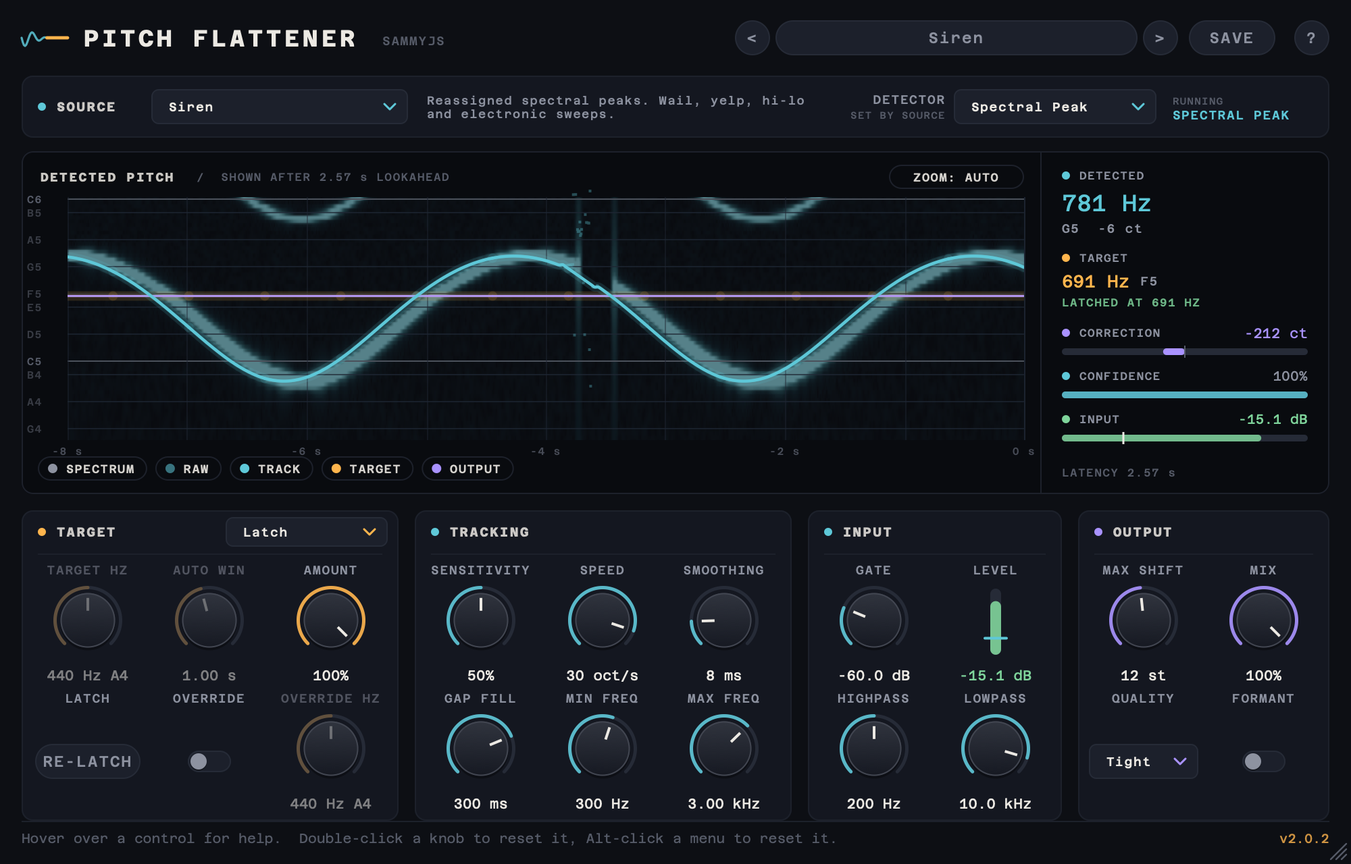
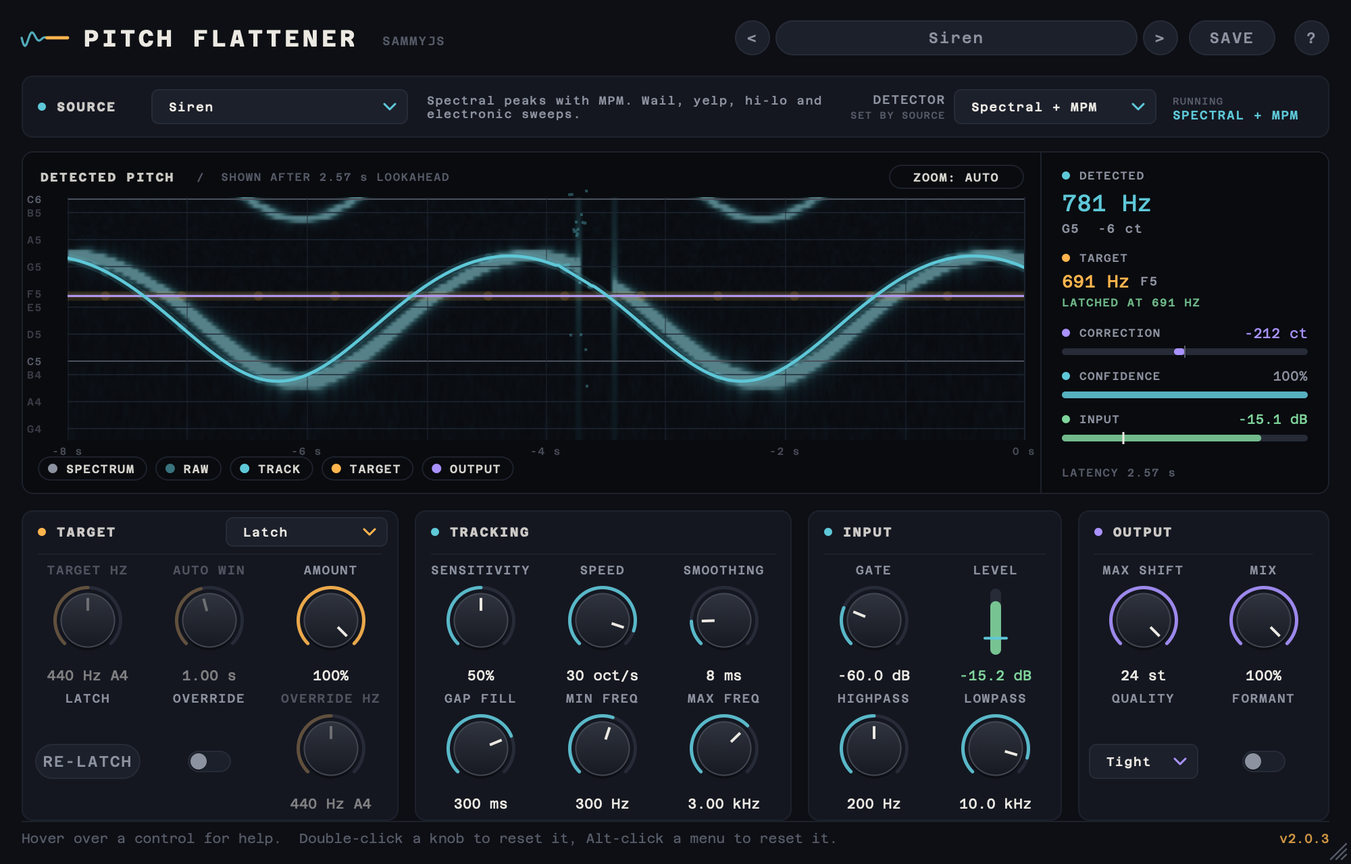
Pitch Flattener: Spectral + MPM detector for sirens, Siren Max Shift 24
A real siren recording (fast yelp, two-tone horn, wail) wobbled in its
first seconds. Not the latch: Spectral Peak smears a yelp of ~9 oct/s, and
the two-tone sits ~16 semitones below the latched pitch, past the
12-semitone Max Shift.

- New detector Spectral + MPM (appended to the Detector list): both run on
  every frame and their candidates, each weighted by its own confidence
  (MPM x4), go to the tracker. MPM is sharp on fast sweeps but fails in
  heavy noise, where Spectral Peak carries the track.
- Siren uses it, and Source Types now set Max Shift (Siren 24, others 12),
  as do the factory presets and the parameter default.
- On the recording, median error: yelp 81 -> 21 cents, two-tone 449 -> 4,
  wail 12 -> 4. Noise robustness matches Spectral Peak.
- Tests: siren_multi (fails on the old preset), siren_yelp_noisy (fails
  with MPM alone); settingsFor uses each Source Type's Max Shift; --file
  diagnostic for real recordings.
- README and screenshots updated.

diff --git a/pitchflattener/tests/FlattenTests.cpp b/pitchflattener/tests/FlattenTests.cpp
@@ -161,7 +161,7 @@ namespace
         s.targetHz = c.targetHz;
         s.autoWindowMs = 1000.0f;
         s.amount = 1.0f;
-        s.maxShiftSemitones = 24.0f;
+        s.maxShiftSemitones = p.maxShiftSemitones;   // as a newly chosen Source Type sets it
         s.gateDb = -60.0f;
         s.mix = 1.0f;
         s.formantPreserve = p.formant;
@@ -418,6 +418,101 @@ namespace
         return ok;
     }
 
+    /**
+     * Diagnostic for a real recording (--file): plays it through a Source Type's settings in Latch mode and prints,
+     * every 100 ms, the tracked pitch, the target, the correction and the output pitch measured near the target,
+     * then the median and 90th percentile of how far the output is from the target.
+     */
+    int analyseFile (const juce::File& file, SourceType source, int detectorOverride)
+    {
+        juce::AudioFormatManager formats;
+        formats.registerBasicFormats();
+        std::unique_ptr<juce::AudioFormatReader> reader (formats.createReaderFor (file));
+        if (reader == nullptr)
+        {
+            std::printf ("can't read %s\n", file.getFullPathName().toRawUTF8());
+            return 1;
+        }
+        const double fs = reader->sampleRate;
+        const int len = (int) reader->lengthInSamples;
+        juce::AudioBuffer<float> in (1, len);
+        reader->read (&in, 0, len, 0, true, false);   // left (or mono) channel
+
+        const auto& p = getSourcePreset (source);
+        FlattenerCore core;
+        DetectorConfig dc;
+        dc.type = detectorOverride >= 0 ? (DetectorType) detectorOverride : p.detector;
+        dc.minHz = p.minHz; dc.maxHz = p.maxHz;
+        core.prepare (fs, 512, 2, dc, p.quality);
+        Case c { file.getFileName().toStdString(), source, TargetMode::Latch, 0.0f, nullptr, 0, 0, 0 };
+        auto ls = settingsFor (c);
+        ls.gateDb = -60.0f;   // the plugin's default
+        core.setLiveSettings (ls);
+        core.setFilters (p.highpassHz, p.lowpassHz);
+
+        const int lat = core.getLatencySamples(), n = lat + len;
+        std::vector<float> l ((size_t) n, 0.0f);
+        std::copy (in.getReadPointer (0), in.getReadPointer (0) + len, l.begin());
+        auto r = l;
+        std::vector<TelemetryFrame> frames;
+        for (int pos = 0; pos < n; pos += 512)
+        {
+            float* ch[2] = { l.data() + pos, r.data() + pos };
+            core.process (ch, 2, std::min (512, n - pos));
+            TelemetryFrame tf;
+            while (core.popTelemetry (tf))
+                frames.push_back (tf);
+        }
+
+        std::printf ("%s: %s, detector %s, Max Shift %.0f st, latency %.2f s\n", file.getFileName().toRawUTF8(), p.name,
+                     getDetectorName (dc.type), ls.maxShiftSemitones, lat / fs);
+        std::printf ("   t(s)   track  target  corr(ct)  out(Hz)  off(ct)\n");
+
+        // Telemetry frame -> time (approximately: the detector's own time bias is not included).
+        const double fa = core.getAnalysisRate();
+        const double hopA = std::round (0.005 * fa);
+        const double fw = std::pow (2.0, std::ceil (std::log2 (8192.0 * fa / 24000.0)));
+        const int win = (int) (0.04 * fs);
+
+        // Meter a low-passed copy of the output, as runCase does, so broadband noise doesn't hide the pitch.
+        float highestTarget = 0.0f;
+        for (const auto& tf : frames) highestTarget = std::max (highestTarget, tf.targetHz);
+        std::vector<float> metered (l.begin() + lat, l.end());
+        {
+            juce::IIRFilter lp1, lp2;
+            const double fc = std::min (0.4 * fs, 8.0 * std::max (60.0, (double) highestTarget));
+            lp1.setCoefficients (juce::IIRCoefficients::makeLowPass (fs, fc));
+            lp2.setCoefficients (juce::IIRCoefficients::makeLowPass (fs, fc));
+            for (auto& v : metered) v = lp2.processSingleSampleRaw (lp1.processSingleSampleRaw (v));
+        }
+
+        std::vector<float> off;
+        int rows = 0, unpitched = 0;
+        double next = 0.0;
+        for (const auto& tf : frames)
+        {
+            const double t = (tf.frame * hopA + fw / 2) / fa;
+            const int at = (int) (t * fs);
+            if (t < next || at + win >= len)
+                continue;
+            next = std::floor (t * 10.0 + 1.0e-6) / 10.0 + 0.1;   // one row per 100 ms step
+            ++rows;
+            if (tf.targetHz <= 0) ++unpitched;
+            const float out = tf.targetHz > 0 ? measurePitch (metered.data() + at, win, fs, tf.targetHz) : 0.0f;
+            const float cents = out > 0 ? 1200.0f * std::log2 (out / tf.targetHz) : 0.0f;
+            if (tf.targetHz > 0)
+                off.push_back (out > 0 ? std::abs (cents) : 1200.0f);
+            std::printf ("  %5.2f %7.1f %7.1f %8.1f %8.1f %8.1f\n", t, tf.trackHz, tf.targetHz, tf.ratioCents, out, cents);
+        }
+        std::printf ("rows with no pitch tracked: %d of %d\n", unpitched, rows);
+        if (off.empty())
+            std::printf ("output off target: no pitch was tracked, so there is nothing to measure\n");
+        else
+            std::printf ("output off target (rows with a pitch), median / 90th pct: %.0f / %.0f cents (1200 = no pitch measured in the output)\n",
+                         percentile (off, 0.5f), percentile (off, 0.9f));
+        return 0;
+    }
+
     bool testToneAndNaN (double fs, bool injectNaN, const char* label)
     {
         FlattenerCore core;
@@ -496,6 +591,8 @@ int main (int argc, char** argv)
     int block = 512;
     juce::File wavDir;
     juce::String only;
+    juce::File analyse;
+    int analyseSource = (int) SourceType::Siren, analyseDetector = -1;
 
     for (int i = 1; i < argc; ++i)
     {
@@ -506,7 +603,13 @@ int main (int argc, char** argv)
         else if (a == "--only" && i + 1 < argc) only = argv[++i];
         else if (a == "--align" && i + 1 < argc) gAlign = juce::String (argv[++i]).getIntValue();
         else if (a == "--dump") gDump = true;
+        else if (a == "--file" && i + 1 < argc) analyse = juce::File (juce::String (argv[++i]));
+        else if (a == "--source" && i + 1 < argc) analyseSource = juce::String (argv[++i]).getIntValue();
+        else if (a == "--detector" && i + 1 < argc) analyseDetector = juce::String (argv[++i]).getIntValue();
     }
+
+    if (analyse != juce::File())
+        return analyseFile (analyse, (SourceType) juce::jlimit (0, (int) SourceType::NumSourceTypes - 1, analyseSource), analyseDetector);
 
     std::printf ("Pitch Flattener DSP tests @ %.0f Hz, block %d\n", fs, block);
     bool ok = true;
@@ -530,6 +633,25 @@ int main (int argc, char** argv)
                 const double ph = std::fmod (t * 3.0, 1.0);
                 return 700.0 * std::pow (2.0, (ph < 0.5 ? ph * 2.0 : 2.0 - ph * 2.0) * 1.0); }, 4, 1.5, -40.0); },
           25.0f, 60.0f, 0.50f },   // ~6 oct/s triangle: close to what a phase-vocoder shifter can follow
+        // A British-style siren cycle: fast yelp (1 octave at 4.5 Hz, ~9 oct/s), then a two-tone horn well below it,
+        // then a slow wail. Needs MPM's sharpness on the yelp and the full 24-semitone Max Shift for the two-tone.
+        { "siren_multi", SourceType::Siren, TargetMode::Fixed, 1450.0f,
+          [] (double r) { return harmonicTone (r, 12.0, [] (double t) {
+                if (t < 4.5)
+                {
+                    const double ph = std::fmod (t * 4.5, 1.0);
+                    return 870.0 * std::pow (2.0, ph < 0.8 ? ph / 0.8 : (1.0 - ph) / 0.2);   // saw-like: slow up, fast down
+                }
+                if (t < 7.0)
+                    return std::fmod (t, 0.7) < 0.35 ? 575.0 : 645.0;
+                return 1300.0 + 450.0 * std::sin (twoPi * 0.18 * (t - 7.0)); }, 4, 1.5, -40.0); },
+          40.0f, 120.0f, 0.40f },
+        // A yelp in heavy broadband noise (about 0 dB SNR): where MPM alone loses the pitch.
+        { "siren_yelp_noisy", SourceType::Siren, TargetMode::Fixed, 1000.0f,
+          [] (double r) { return harmonicTone (r, 8.0, [] (double t) {
+                const double ph = std::fmod (t * 3.0, 1.0);
+                return 700.0 * std::pow (2.0, (ph < 0.5 ? ph * 2.0 : 2.0 - ph * 2.0) * 1.0); }, 4, 1.5, -12.0); },
+          30.0f, 70.0f, 0.45f },
         { "voice_vibrato", SourceType::Vocal, TargetMode::Latch, 0.0f,
           [] (double r) { return voice (r, 10.0, [] (double t) {
                 return 180.0 * std::pow (2.0, (50.0 * std::sin (twoPi * 5.5 * t) + 150.0 * std::sin (twoPi * 0.15 * t)) / 1200.0); }); },

diff --git a/pitchflattener/Source/dsp/SourcePresets.h b/pitchflattener/Source/dsp/SourcePresets.h
@@ -19,27 +19,28 @@ namespace pf
         float highpassHz, lowpassHz;
         bool formant;
         int quality;              // 0 = Smooth (standard window), 1 = Tight (short window)
+        float maxShiftSemitones;  // sirens often switch between patterns far apart in pitch (yelp, two-tone, wail)
     };
 
     inline const SourcePreset& getSourcePreset(SourceType t)
     {
         static const SourcePreset presets[] = {
             { "Vocal / Speech", "pYIN with an HMM tracker. Voices, singing, vocal-like calls.",
-              DetectorType::PYin,         60.0f, 1000.0f, 0.50f, 12.0f, 15.0f, 150.0f,   50.0f,  4000.0f, true,  0 },
+              DetectorType::PYin,         60.0f, 1000.0f, 0.50f, 12.0f, 15.0f, 150.0f,   50.0f,  4000.0f, true, 0, 12.0f },
             { "Instrument",     "McLeod pitch method. Solo melodic instruments, vibrato, warble.",
-              DetectorType::Mpm,          40.0f, 2500.0f, 0.50f, 16.0f, 10.0f, 150.0f,   30.0f,  8000.0f, false, 0 },
-            { "Siren",          "Reassigned spectral peaks. Wail, yelp, hi-lo and electronic sweeps.",
-              DetectorType::SpectralPeak, 300.0f, 3000.0f, 0.50f, 30.0f,  8.0f, 300.0f,  200.0f, 10000.0f, false, 1 },
+              DetectorType::Mpm,          40.0f, 2500.0f, 0.50f, 16.0f, 10.0f, 150.0f,   30.0f,  8000.0f, false, 0, 12.0f },
+            { "Siren",          "Spectral peaks with MPM. Wail, yelp, hi-lo and electronic sweeps.",
+              DetectorType::SpectralMpm,  300.0f, 3000.0f, 0.50f, 30.0f,  8.0f, 300.0f,  200.0f, 10000.0f, false, 1, 24.0f },
             { "Whistle / Tone", "Long-window spectral peaks. Whistles, feedback, test tones, theremin.",
-              DetectorType::SpectralPeak, 150.0f, 6000.0f, 0.50f,  8.0f, 20.0f, 300.0f,  100.0f, 11000.0f, false, 0 },
+              DetectorType::SpectralPeak, 150.0f, 6000.0f, 0.50f,  8.0f, 20.0f, 300.0f,  100.0f, 11000.0f, false, 0, 12.0f },
             { "Engine / Doppler", "Harmonic sum spectrum. Engines, pass-bys, props, motors, trains.",
-              DetectorType::HarmonicSum,   25.0f, 1000.0f, 0.50f,  4.0f, 30.0f, 400.0f,   20.0f,  5000.0f, false, 0 },
+              DetectorType::HarmonicSum,   25.0f, 1000.0f, 0.50f,  4.0f, 30.0f, 400.0f,   20.0f,  5000.0f, false, 0, 12.0f },
             { "Drone / Hum",    "Very stable harmonic tracking for hums, generators and drones.",
-              DetectorType::HarmonicSum,   25.0f,  400.0f, 0.50f,  1.0f, 50.0f, 400.0f,   20.0f,  3000.0f, false, 0 },
+              DetectorType::HarmonicSum,   25.0f,  400.0f, 0.50f,  1.0f, 50.0f, 400.0f,   20.0f,  3000.0f, false, 0, 12.0f },
             { "Noisy Field",    "Harmonic sum with strict voicing for rough field recordings.",
-              DetectorType::HarmonicSum,   40.0f, 1500.0f, 0.35f,  4.0f, 40.0f, 400.0f,   40.0f,  6000.0f, false, 0 },
+              DetectorType::HarmonicSum,   40.0f, 1500.0f, 0.35f,  4.0f, 40.0f, 400.0f,   40.0f,  6000.0f, false, 0, 12.0f },
             { "Custom",         "Choose the detector and every setting yourself.",
-              DetectorType::SpectralPeak, 100.0f, 2000.0f, 0.50f,  8.0f, 15.0f, 200.0f,   40.0f,  8000.0f, false, 0 },
+              DetectorType::SpectralPeak, 100.0f, 2000.0f, 0.50f,  8.0f, 15.0f, 200.0f,   40.0f,  8000.0f, false, 0, 12.0f },
         };
 
         auto i = std::clamp((int) t, 0, (int) SourceType::NumSourceTypes - 1);
@@ -54,6 +55,7 @@ namespace pf
             case DetectorType::Mpm:          return "MPM (McLeod)";
             case DetectorType::SpectralPeak: return "Spectral Peak";
             case DetectorType::HarmonicSum:  return "Harmonic Sum";
+            case DetectorType::SpectralMpm:  return "Spectral + MPM";
             case DetectorType::NumDetectors:
             default:                         return "?";
         }

diff --git a/pitchflattener/Source/dsp/Detectors.cpp b/pitchflattener/Source/dsp/Detectors.cpp
@@ -730,6 +730,37 @@ namespace pf
     }
 
     //==========================================================================
+    // Spectral Peak + MPM
+    //==========================================================================
+    SpectralMpmDetector::SpectralMpmDetector (const DetectorConfig& cfg)
+        : spectral (cfg), mpm (cfg)
+    {
+        config = cfg;
+        frameLen = std::max (spectral.frameLength(), mpm.frameLength());
+    }
+
+    void SpectralMpmDetector::analyse (const float* frame, float sensitivity, FrameObservation& out)
+    {
+        // Both see the same moment: each gets the centre of the (longer) frame.
+        FrameObservation s, m;
+        s.clear();
+        m.clear();
+        spectral.analyse (frame + (frameLen - spectral.frameLength()) / 2, sensitivity, s);
+        mpm.analyse (frame + (frameLen - mpm.frameLength()) / 2, sensitivity, m);
+
+        for (int i = 0; i < s.numCands; ++i)
+            out.add (s.cands[(size_t) i].hz, s.cands[(size_t) i].salience * s.voicedProb);
+        // MPM's pitch is the sharper one on fast sweeps, so where both are confident it should win. Weighted by
+        // its own confidence, it fades out in noise, where Spectral Peak's candidates carry the track.
+        constexpr float mpmWeight = 4.0f;
+        for (int i = 0; i < m.numCands; ++i)
+            out.add (m.cands[(size_t) i].hz, m.cands[(size_t) i].salience * m.voicedProb * mpmWeight);
+
+        out.voicedProb = std::max (s.voicedProb, m.voicedProb);
+        out.sortBySalience();
+    }
+
+    //==========================================================================
     std::unique_ptr<IPitchDetector> createDetector (const DetectorConfig& cfgIn)
     {
         DetectorConfig cfg = cfgIn;
@@ -741,6 +772,7 @@ namespace pf
             case DetectorType::PYin:         return std::make_unique<PYinDetector> (cfg);
             case DetectorType::Mpm:          return std::make_unique<MpmDetector> (cfg);
             case DetectorType::HarmonicSum:  return std::make_unique<HarmonicSumDetector> (cfg);
+            case DetectorType::SpectralMpm:  return std::make_unique<SpectralMpmDetector> (cfg);
             case DetectorType::SpectralPeak:
             case DetectorType::NumDetectors:
             default:                         return std::make_unique<SpectralPeakDetector> (cfg);

diff --git a/pitchflattener/Source/PluginProcessor.cpp b/pitchflattener/Source/PluginProcessor.cpp
@@ -124,7 +124,7 @@ juce::AudioProcessorValueTreeState::ParameterLayout PitchFlattenerAudioProcessor
                                                         AudioParameterFloatAttributes().withLabel ("ms").withStringFromValueFunction (ms)));
     p.push_back (std::make_unique<AudioParameterFloat> (pid (ParamIDs::flattenAmount), "Flatten Amount", NormalisableRange<float> (0.0f, 100.0f, 1.0f), 100.0f,
                                                         AudioParameterFloatAttributes().withLabel ("%").withStringFromValueFunction (pct)));
-    p.push_back (std::make_unique<AudioParameterFloat> (pid (ParamIDs::maxShift), "Max Shift", NormalisableRange<float> (1.0f, 24.0f, 0.5f), 12.0f,
+    p.push_back (std::make_unique<AudioParameterFloat> (pid (ParamIDs::maxShift), "Max Shift", NormalisableRange<float> (1.0f, 24.0f, 0.5f), d.maxShiftSemitones,
                                                         AudioParameterFloatAttributes().withLabel ("st")
                                                             .withStringFromValueFunction ([] (float v, int) { return String (v, 1) + " st"; })));
     p.push_back (std::make_unique<AudioParameterBool> (pid (ParamIDs::manualOverride), "Manual Override", false));
@@ -286,6 +286,7 @@ void PitchFlattenerAudioProcessor::applySourceTypeDefaults (pf::SourceType type)
     set (ParamIDs::detectionLowpass, p.lowpassHz);
     set (ParamIDs::rbFormantPreserve, p.formant ? 1.0f : 0.0f);
     set (ParamIDs::quality, (float) p.quality);
+    set (ParamIDs::maxShift, p.maxShiftSemitones);
 }
 
 //==============================================================================

diff --git a/pitchflattener/Source/dsp/Detectors.h b/pitchflattener/Source/dsp/Detectors.h
@@ -128,6 +128,26 @@ namespace pf
     };
 
     /**
+     * Spectral Peak and MPM on the same frame, their candidates pooled for the tracker.
+     *
+     * MPM follows very fast sweeps (yelps) closely but gives up in heavy noise; Spectral Peak survives the noise
+     * but smears fast sweeps. Each detector's candidates are weighted by its own voicing confidence, near-equal
+     * pitches are merged, and the tracker's Viterbi picks the continuous path through the pool.
+     */
+    class SpectralMpmDetector final : public IPitchDetector
+    {
+    public:
+        explicit SpectralMpmDetector (const DetectorConfig& cfg);
+        int frameLength() const override { return frameLen; }
+        void analyse (const float* frame, float sensitivity, FrameObservation& out) override;
+
+    private:
+        SpectralPeakDetector spectral;
+        MpmDetector mpm;
+        int frameLen = 0;
+    };
+
+    /**
      * Subharmonic summation (Hermes 1988) on a whitened log-frequency spectrum,
      * for harmonic-rich sources whose fundamental may be weak or missing.
      */

diff --git a/pitchflattener/Source/PluginEditor.cpp b/pitchflattener/Source/PluginEditor.cpp
@@ -341,7 +341,7 @@ PitchFlattenerAudioProcessorEditor::Content::Content (PitchFlattenerAudioProcess
     setupSourceType();
     setupChoice (m_detectorCombo, ParamIDs::detector, detect,
                  "Detector: the pitch detection algorithm. Each Source Type picks one; change it here to override. "
-                 "pYIN suits voices, MPM solo instruments, Spectral Peak sirens and tones, Harmonic Sum engines and drones.",
+                 "pYIN suits voices, MPM solo instruments, Spectral Peak tones, Spectral + MPM sirens, Harmonic Sum engines and drones.",
                  m_detectorAttachment);
 
     // --- Target ------------------------------------------------------------

diff --git a/pitchflattener/Source/dsp/PitchTracker.cpp b/pitchflattener/Source/dsp/PitchTracker.cpp
@@ -62,7 +62,7 @@ namespace pf
         // Allowed movement per hop: tracking speed (oct/s) -> cents per hop. Floor keeps jitter cheap.
         sigmaCents = std::max (6.0f, 1200.0f * s.trackingSpeedOctPerSec / hopsPerSec);
         harmonicDetector = detector == DetectorType::HarmonicSum;
-        octaveCost = harmonicDetector ? 4.0f : (detector == DetectorType::SpectralPeak ? 3.0f : 2.5f);
+        octaveCost = harmonicDetector ? 4.0f : (detector == DetectorType::SpectralPeak || detector == DetectorType::SpectralMpm ? 3.0f : 2.5f);
         voicedOn = 0.5f;
 
         gapFrames = std::clamp ((int) std::lround (s.gapFillMs * 0.001f * hopsPerSec), 0, gapLag);

diff --git a/pitchflattener/Source/PresetManager.cpp b/pitchflattener/Source/PresetManager.cpp
@@ -127,6 +127,7 @@ void PresetManager::buildFactoryPresets()
         setParamValue (state, ParamIDs::detectionLowpass, p.lowpassHz);
         setParamValue (state, ParamIDs::rbFormantPreserve, p.formant ? 1.0f : 0.0f);
         setParamValue (state, ParamIDs::quality, (float) p.quality);
+        setParamValue (state, ParamIDs::maxShift, p.maxShiftSemitones);
         setParamValue (state, ParamIDs::targetMode, (float) (int) target.mode);
         setParamValue (state, ParamIDs::autoWindow, target.autoWindowMs);
 

diff --git a/pitchflattener/Source/dsp/FlattenerTypes.h b/pitchflattener/Source/dsp/FlattenerTypes.h
@@ -25,6 +25,7 @@ namespace pf
         Mpm,             // McLeod pitch method (NSDF): solo instruments
         SpectralPeak,    // multi-resolution reassigned STFT peaks: sirens, whistles, tones
         HarmonicSum,     // subharmonic summation on a whitened log spectrum: engines, drones, field
+        SpectralMpm,     // Spectral Peak and MPM together: fast sweeps (MPM) that stay robust in noise (Spectral Peak)
         NumDetectors
     };
 

diff --git a/pitchflattener/README.md b/pitchflattener/README.md
@@ -123,7 +123,7 @@ Presets saved with 1.x lived in `Documents/PitchFlattener Presets`. To use them,
 
 ### 2. Source strip
 
-![The source strip: Source Type menu set to Siren, a description of the detector, the Detector menu set to Spectral Peak, and RUNNING: SPECTRAL PEAK](docs/source-strip.png)
+![The source strip: Source Type menu set to Siren, a description of the detector, the Detector menu set to Spectral + MPM, and RUNNING: SPECTRAL + MPM](docs/source-strip.png)
 
 From left to right:
 
@@ -134,7 +134,7 @@ From left to right:
 
 <p>
   <img src="docs/menu-source.png" alt="The Source Type menu: Vocal / Speech, Instrument, Siren (ticked), Whistle / Tone, Engine / Doppler, Drone / Hum, Noisy Field, Custom" width="38%">
-  <img src="docs/menu-detector.png" alt="The Detector menu: pYIN, MPM (McLeod), Spectral Peak (ticked), Harmonic Sum" width="34%">
+  <img src="docs/menu-detector.png" alt="The Detector menu: pYIN, MPM (McLeod), Spectral Peak, Harmonic Sum, Spectral + MPM (ticked)" width="34%">
 </p>
 
 See [Source Types and detectors](#source-types-and-detectors) for which to pick and how each detector works.
@@ -242,7 +242,7 @@ The teal sections control how the pitch is found and followed.
 
 The violet section controls the shifter.
 
-- **MAX SHIFT** (semitones): the largest correction allowed. Larger deviations are only corrected this far.
+- **MAX SHIFT** (semitones): the largest correction allowed. Larger deviations are only corrected this far. Siren sets it to 24, because sirens often switch between patterns far apart in pitch (a yelp, then a two-tone horn an octave lower); the other Source Types set 12.
 - **MIX**: blends in the time-aligned dry signal. Keep it at 100 % for flattening; partial mixes can sound phasey.
 - **QUALITY**:
   - **Smooth** uses the shifter's standard window and gives the best sound on sustained tones.
@@ -290,7 +290,7 @@ Each Source Type chooses a pitch detector and tuned defaults. Every setting can 
 |---|---|---|
 | **Vocal / Speech** | pYIN (probabilistic YIN) | Voices, singing, vocal-like animal calls. Ignores breaths and consonants and follows the voice smoothly. Formant preservation is on by default. |
 | **Instrument** | MPM (McLeod Pitch Method) | Solo melodic instruments: vibrato, warble, tape wow. |
-| **Siren** | Spectral Peak (reassigned STFT) | Wail, yelp, hi-lo and electronic sweeps, even in traffic noise. Uses the Tight window to follow fast sweeps. |
+| **Siren** | Spectral + MPM | Wail, yelp, hi-lo and electronic sweeps, even in traffic noise. Uses the Tight window to follow fast sweeps, and a 24-semitone Max Shift so a siren that switches pattern stays flat. |
 | **Whistle / Tone** | Spectral Peak, long windows | Whistles, feedback, test tones, theremin. Very stable on near-pure tones. |
 | **Engine / Doppler** | Harmonic Sum (subharmonic summation) | Engines, pass-bys, props, motors and trains. Follows the whole harmonic series, so it does not jump octaves and copes with a weak or missing fundamental. |
 | **Drone / Hum** | Harmonic Sum, slow tracking | Hums, generators and drones down to 25 Hz. |
@@ -302,6 +302,7 @@ Each Source Type chooses a pitch detector and tuned defaults. Every setting can 
 - **pYIN** (Mauch & Dixon 2014) runs YIN's cumulative-mean-normalised difference function, computed with FFTs. It weighs every dip in that function against a Beta-distributed prior over YIN thresholds, so each frame produces several pitch candidates with probabilities instead of one guess.
 - **MPM** (McLeod & Wyvill 2005) uses the normalised squared difference function. It picks the first "key maximum" within a fraction of the highest one, which avoids octave errors on bright instruments.
 - **Spectral Peak** uses Gaussian-windowed FFTs at several lengths: short windows for fast sweeps, long ones for steady tones. Each peak is refined with quadratic interpolation and time-frequency reassignment, which gives the instantaneous frequency even mid-sweep. Its salience is measured against the local noise floor. A harmonic-support check makes the fundamental win over its overtones.
+- **Spectral + MPM** runs both on every frame and gives the tracker both sets of candidates, each weighted by its own detector's confidence. MPM is the sharper of the two on very fast yelps but loses the pitch in heavy noise; Spectral Peak survives the noise but smears the fastest sweeps. Where both are confident, MPM's pitch is favoured; in noise MPM's confidence drops and Spectral Peak carries the track.
 - **Harmonic Sum** (subharmonic summation, Hermes 1988) works on a whitened, log-frequency spectrum and adds up the energy at every candidate's harmonics. An odd/even-harmonic test settles octave ambiguities, for example when the fundamental is missing.
 
 ### Tracking, using lookahead
@@ -323,7 +324,9 @@ The shifter is **Rubber Band Library R3** (the "finer" engine) in high-consisten
 | Test signal | Input pitch range | Output error (median / 90th pct) |
 |---|---|---|
 | Siren wail, 550–1350 Hz sweep | 1520 cents | 2 / 4 cents |
-| Siren yelp, 1 octave triangle at 3 Hz (6 oct/s) | 1060 cents | 18 / 40 cents |
+| Siren yelp, 1 octave triangle at 3 Hz (6 oct/s) | 1060 cents | 17 / 39 cents |
+| Siren cycle: fast yelp, then a two-tone horn an octave lower, then a wail | 1910 cents | 2 / 42 cents |
+| Siren yelp in heavy noise (about 0 dB SNR) | 1060 cents | 17 / 40 cents |
 | Voice, 50-cent vibrato + 3-semitone drift, formants, gaps | 350 cents | 7 / 11 cents |
 | Engine pass-by, 25 m/s Doppler | 250 cents | 1 / 5 cents |
 | Engine with missing fundamental, Doppler | 200 cents | 5 / 11 cents |
@@ -340,6 +343,8 @@ cmake --build build-tests --target PitchFlattenerTests
 ```
 
 `--wav` writes each test's input and output so you can listen to them.
+
+To see how a real recording fares, `--file sound.wav` plays it through a Source Type's settings (`--source 2`, Siren, by default; `--detector n` overrides the detector) and prints the track, target, correction and output pitch every 100 ms, with how far the output lands from the target.
 
 ## Tips
 
